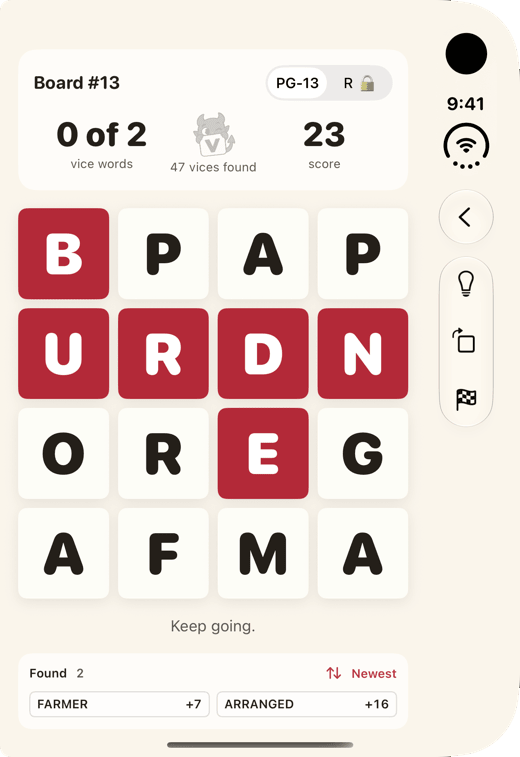
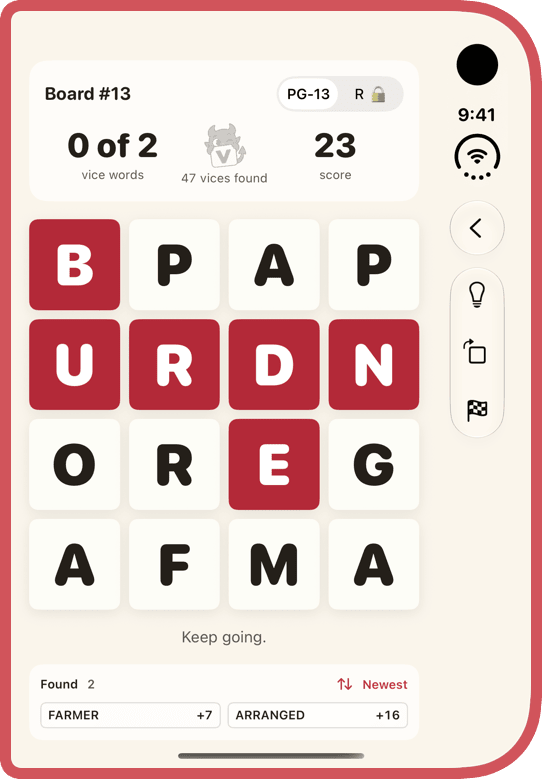
Draw each phone's edge into its screenshot file
The charcoal borders were CSS, and the rounding never quite matched the
phones' own corners. Each capture now carries a red edge grown from its
real outline, and the page adds no rounding, outline, or shadow of its
own. The propped-up Duo is one finished image, fold and perspective
included, not two halves tilted by the browser. The hero shows the whole
phone, so its edge is not cut off.

diff --git a/styles.css b/styles.css
@@ -11,7 +11,6 @@
   --muted: #6f5f56;
   --accent: #DC1229;  /* Vice Red */
   --line: #E8D9C0;    /* Sand, the app icon's ground */
-  --case: #4a4441;    /* the charcoal phone edge drawn around each capture */
   --rounded: ui-rounded, "SF Pro Rounded", "Avenir Next", -apple-system,
     BlinkMacSystemFont, "Segoe UI", system-ui, sans-serif;
 }
@@ -183,23 +182,8 @@ a:hover { text-decoration: underline; }
   margin: 0 0 22px 44px;
 }
 
-/* The hero capture is a full-height device screenshot with dead space below the
-   found-words list; crop to the part that carries the game. The captures carry
-   the device's own black corner mask, so the radius is the device's (200px on a
-   1320px-wide screen), given as width / height percentages to stay round. */
-.hero-shot img {
-  aspect-ratio: 1320 / 2700;
-  object-fit: cover;
-  object-position: top;
-  padding: 3px;
-  background: var(--case);
-  border-radius: 15.9% / 7.7%;
-  box-shadow:
-    0 1px 0 rgba(17, 17, 17, 0.16),
-    0 2px 5px rgba(17, 17, 17, 0.07),
-    0 20px 44px rgba(17, 17, 17, 0.16);
-}
-
+/* Each capture's file carries its own transparent corners and a drawn phone
+   edge, so the page adds no rounding, outline, or shadow of its own. */
 /* ---------- sections ---------- */
 
 /* No rules between sections. The red 27px headings carry the break, and
@@ -262,46 +246,15 @@ p { margin: 0 0 10px; }
    Duo standing beside the words. */
 .duo-card { display: flex; align-items: center; gap: 20px; }
 .duo-card > div { flex: 1; }
-.duo-card { --duo: 124px; --prop: calc(var(--duo) * 1.12); --bezel: 2px; }
-/* Folded shut: the hinge side is nearly square, the outer side round. */
-.duo-card img {
-  box-sizing: content-box;
-  width: var(--duo); height: auto;
-  padding: var(--bezel);
-  background: var(--case);
-  border-radius: calc(var(--duo) * 0.04) calc(var(--duo) * 0.2) calc(var(--duo) * 0.2) calc(var(--duo) * 0.04);
-  filter: drop-shadow(0 5px 12px rgba(17, 17, 17, 0.16));
-}
-/* The same phone propped up like a laptop: one capture drawn as two halves,
-   the lower one lying flat and widening toward the reader. */
-.duo-propped {
-  width: calc(var(--prop) + 2 * var(--bezel));
-  margin: 0 10px;
-  filter: drop-shadow(0 5px 12px rgba(17, 17, 17, 0.16));
-}
-.duo-propped span {
-  display: block;
-  height: calc(var(--prop) * 0.7106 + var(--bezel));
-  border: var(--bezel) solid var(--case);
-  border-bottom-width: 1px;
-  border-radius: calc(var(--prop) * 0.1) calc(var(--prop) * 0.1) 0 0;
-  background: var(--case) url(images/wordvice-duo-laptop-crush.png) top / 100% auto no-repeat;
-}
-/* The flat half is foreshortened, so its box gives back the height it no
-   longer fills and the pair stays centered. */
-.duo-propped span + span {
-  border-width: 0 var(--bezel) var(--bezel);
-  border-radius: 0 0 calc(var(--prop) * 0.1) calc(var(--prop) * 0.1);
-  background-position: bottom;
-  transform-origin: top;
-  transform: perspective(calc(var(--prop) * 2.9)) rotateX(48deg);
-  margin-bottom: calc(var(--prop) * -0.13);
-}
+/* Both phones are finished images, edge and fold drawn in the file, shown at
+   one height so they stand level. */
+.duo-card { --tall: 178px; }
+.duo-pair img { height: var(--tall); width: auto; }
 @media (min-width: 560px) { .duo-card { grid-column: span 2; } }
-.duo-pair { display: flex; align-items: center; gap: 8px; }
+.duo-pair { display: flex; align-items: center; gap: 16px; }
 /* On a phone the words go on top and the two phones stand beneath. */
 @media (max-width: 559px) {
-  .duo-card { flex-direction: column; align-items: stretch; gap: 14px; }
+  .duo-card { --tall: 156px; flex-direction: column; align-items: stretch; gap: 14px; }
   .duo-pair { justify-content: center; }
 }
 
@@ -339,18 +292,7 @@ p { margin: 0 0 10px; }
 
 figure { margin: 0; }
 
-figure img { width: 100%; border-radius: 10px; }
-.lineup img { border-radius: 0; }
-
-.shots img {
-  padding: 3px;
-  background: var(--case);
-  border-radius: 15.9% / 7.3%;
-  box-shadow:
-    0 1px 0 rgba(17, 17, 17, 0.14),
-    0 2px 5px rgba(17, 17, 17, 0.06),
-    0 14px 32px rgba(17, 17, 17, 0.13);
-}
+figure img { width: 100%; }
 
 figcaption {
   margin-top: 6px;

diff --git a/index.html b/index.html
@@ -29,7 +29,7 @@
 
   <header class="hero">
     <figure class="hero-shot">
-      <img src="images/wordvice-daily-vice-crush.png" width="960" height="2086" decoding="async" alt="Daily board number 13 in Word Vice: a four-by-four grid of letters with BURP just found for six points, both vice words found, and 49 vices in the jar.">
+      <img src="images/wordvice-daily-vice-crush.png" width="978" height="2104" decoding="async" alt="Daily board number 13 in Word Vice: a four-by-four grid of letters with BURP just found for six points, both vice words found, and 49 vices in the jar.">
     </figure>
     <div>
       <div class="brand-row">
@@ -140,10 +140,8 @@
           <p>Word Vice plays shut, open, or propped up, and it knows one extra trick for when the boss walks in. We’ve said too much already.</p>
         </div>
         <div class="duo-pair">
-          <img src="images/wordvice-duo-crush.png" width="520" height="757" loading="lazy" decoding="async" alt="Word Vice on a folded iPhone Duo: the daily board with a word swiped across it and the toolbar down the side.">
-          <div class="duo-propped" role="img" aria-label="Word Vice on an iPhone Duo propped up like a laptop: the score on the upright half and the board on the half lying flat.">
-            <span></span><span></span>
-          </div>
+          <img src="images/wordvice-duo-crush.png" width="542" height="779" loading="lazy" decoding="async" alt="Word Vice on a folded iPhone Duo: the daily board with a word swiped across it and the toolbar down the side.">
+          <img src="images/wordvice-duo-laptop-crush.png" width="625" height="679" loading="lazy" decoding="async" alt="Word Vice on an iPhone Duo propped up like a laptop: the score on the upright half and the board on the half lying flat.">
         </div>
       </div>
       <div class="card">
@@ -158,15 +156,15 @@
     <h2>Evidence of Wrongdoing</h2>
     <div class="shots">
       <figure>
-        <img src="images/wordvice-home-crush.png" width="960" height="2086" loading="lazy" decoding="async" alt="The Word Vice home screen: the devil peeking out of a jar of bad words, the PG-13 and R-Rated picker, buttons for Today’s Board and a Timed Round, and a one-day streak.">
+        <img src="images/wordvice-home-crush.png" width="978" height="2104" loading="lazy" decoding="async" alt="The Word Vice home screen: the devil peeking out of a jar of bad words, the PG-13 and R-Rated picker, buttons for Today’s Board and a Timed Round, and a one-day streak.">
         <figcaption>Choose your level of bad judgment.</figcaption>
       </figure>
       <figure>
-        <img src="images/wordvice-jar-crush.png" width="960" height="2086" loading="lazy" decoding="async" alt="The jar screen: 49 of 98 vices found, rated ‘A sailor would blush’, with each found word shown censored.">
+        <img src="images/wordvice-jar-crush.png" width="978" height="2104" loading="lazy" decoding="async" alt="The jar screen: 49 of 98 vices found, rated ‘A sailor would blush’, with each found word shown censored.">
         <figcaption>Keep everything you shouldn’t have said.</figcaption>
       </figure>
       <figure>
-        <img src="images/wordvice-timed-crush.png" width="960" height="2086" loading="lazy" decoding="async" alt="A timed round with fifty-seven seconds left: FART highlighted on the board and Vice Fever paying five extra points per vice letter.">
+        <img src="images/wordvice-timed-crush.png" width="978" height="2104" loading="lazy" decoding="async" alt="A timed round with fifty-seven seconds left: FART highlighted on the board and Vice Fever paying five extra points per vice letter.">
         <figcaption>Or panic for sixty seconds.</figcaption>
       </figure>
     </div>
